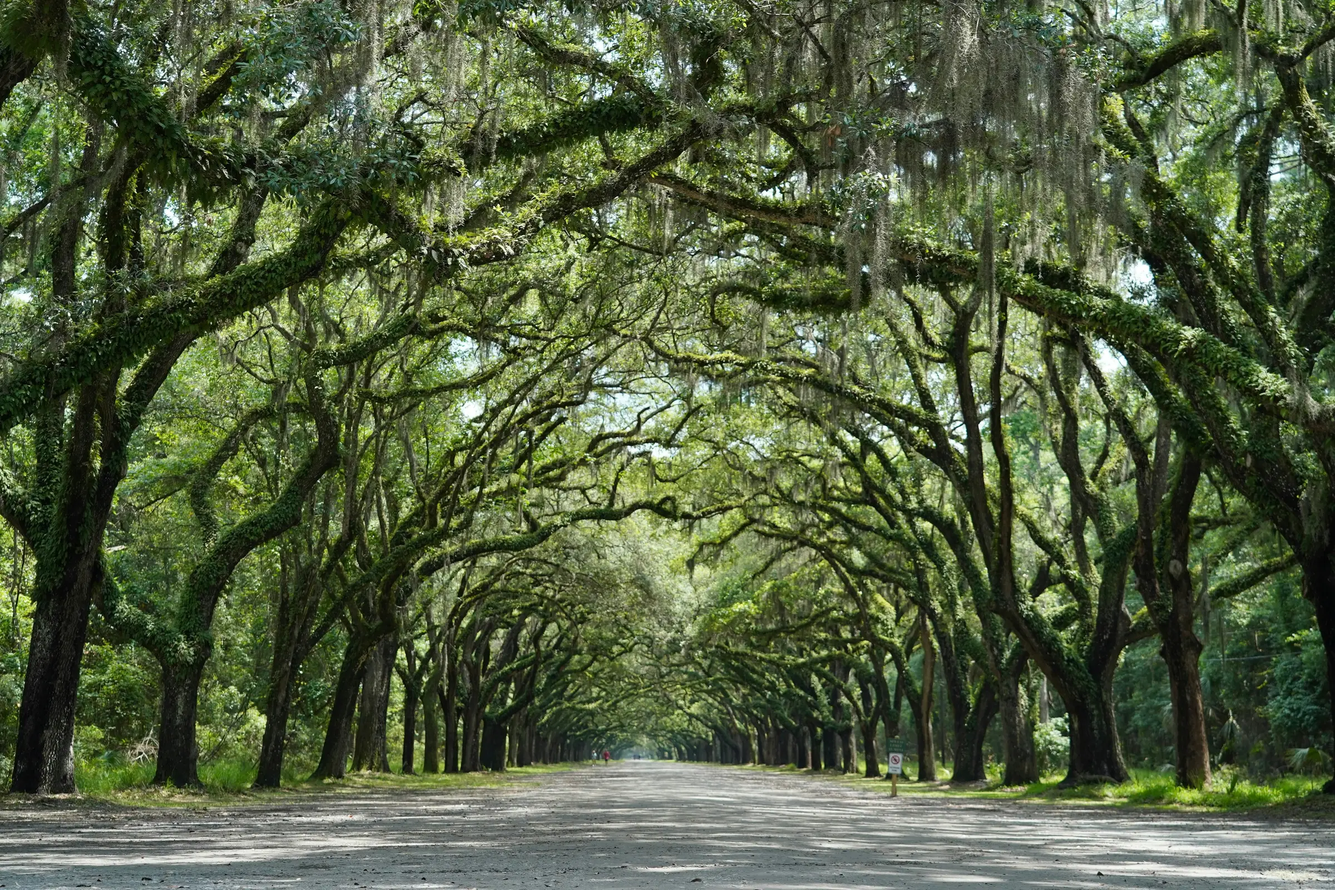
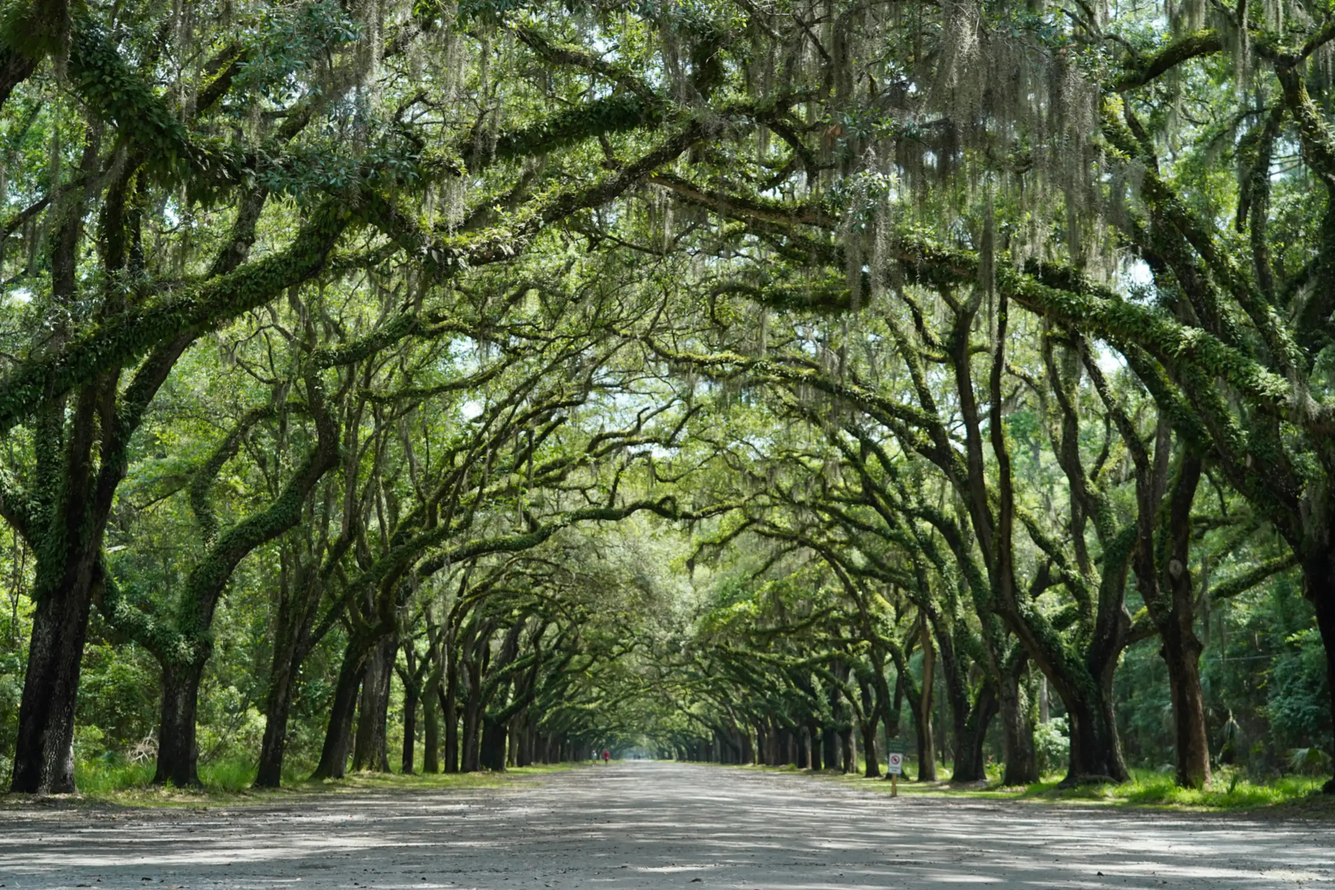
perf(web): lighter 2400 files for the palm-walk and oak-avenue look defaults
Both are a look's default welcome photo, the image the page paints first, and
dense foliage left their 2400 files at 988,766 B (palm-walk) and 844,418 B
(oak-avenue) at quality 72. Quality alone cannot fix it: palm-walk is still
~688 KB at q40 and ~806 KB at q50. The build script now takes a per-photo
encoding for the 2400 file (`stockPhotoEncoding`; default stays q72):
- palm-walk:  q55, blur sigma 0.8 after the resize, effort 6, smart subsample
  -> 501,378 B (490 KiB), -49%.
- oak-avenue: q60, same soften -> 467,000 B (456 KiB), -45%.

Rebuilt with `pnpm exec tsx scripts/build-stock-photos.ts palm-walk oak-avenue`.
Only the two 2400 files changed: the 1200 and 480 files rebuilt byte-identical,
dimensions stay 2400x1600. Compared at 1:1 and 2x against the q72 files: the
same framing and mean colour (channel means within 0.3), no banding in the
skies, a slight softening of fine fronds and moss (contrast stdev -7%).

Revert-check: making stockPhotoEncoding return `{ quality: QUALITY }` for every
file turns 1 test red (the override test); the default test and the URL test
stay green.

diff --git a/scripts/build-stock-photos.ts b/scripts/build-stock-photos.ts
@@ -8,6 +8,9 @@
  *
  *   pnpm exec tsx scripts/build-stock-photos.ts [id ...]
  *
+ * Every file is WebP at quality 72, except the 2400 file of the two heaviest
+ * look defaults (`ENCODING_2400`).
+ *
  * Exit codes: 0 built, 1 a photo could not be processed as asked, 2 the build
  * could not run (a download failed, an unknown id, or a source narrower than
  * the largest output, which would be an upscale).
@@ -27,6 +30,32 @@ import { isMainModule } from './lib/is-main-module';
 
 const WIDTHS: readonly StockPhotoWidth[] = [2400, 1200, 480];
 const QUALITY = 72;
+
+export interface StockPhotoEncoding {
+  quality: number;
+  /** A Gaussian blur's sigma, applied after the resize and before encoding. */
+  soften?: number;
+  effort?: number;
+  smartSubsample?: boolean;
+}
+
+/**
+ * The 2400 file of the two heaviest look defaults, the image their look's page
+ * paints first. Dense foliage left them at ~989 KB (palm-walk) and ~844 KB
+ * (oak-avenue) at quality 72, and quality alone cannot fix that (palm-walk is
+ * still ~688 KB at 40), so they also take a light soften before encoding: ~490
+ * KiB and ~456 KiB, the same framing and mean colour, no banding. The 1200 and
+ * 480 files are already light and keep the default.
+ */
+const ENCODING_2400: Partial<Record<StockPhotoId, StockPhotoEncoding>> = {
+  'palm-walk': { quality: 55, soften: 0.8, effort: 6, smartSubsample: true },
+  'oak-avenue': { quality: 60, soften: 0.8, effort: 6, smartSubsample: true },
+};
+
+/** How a stock photo file is encoded. */
+export function stockPhotoEncoding(id: StockPhotoId, width: StockPhotoWidth): StockPhotoEncoding {
+  return (width === 2400 ? ENCODING_2400[id] : undefined) ?? { quality: QUALITY };
+}
 
 /** Where the crop is anchored when the default (`attention`) loses the subject. */
 type CropPosition = 'attention' | 'entropy' | 'top' | 'bottom' | 'centre';
@@ -67,10 +96,12 @@ export async function buildStockPhotos(
       throw new BuildCouldNotRun(`${id}: source is ${meta.width ?? '?'}px wide, under 2400`);
     }
     for (const width of WIDTHS) {
-      const out = await sharp(original)
-        .resize(width, (width * 2) / 3, { fit: 'cover', position: CROP_POSITION[id] ?? 'attention' })
-        .webp({ quality: QUALITY })
-        .toBuffer();
+      const { soften, ...webp } = stockPhotoEncoding(id, width);
+      const resized = sharp(original).resize(width, (width * 2) / 3, {
+        fit: 'cover',
+        position: CROP_POSITION[id] ?? 'attention',
+      });
+      const out = await (soften ? resized.blur(soften) : resized).webp(webp).toBuffer();
       // stockPhotoSrc is `/site-looks/<file>`; only the file name is ours to join.
       await writeFile(join(outDir, stockPhotoSrc(id, width).replace('/site-looks/', '')), out);
     }

diff --git a/scripts/__tests__/build-stock-photos.test.ts b/scripts/__tests__/build-stock-photos.test.ts
@@ -4,12 +4,29 @@
  * fetched from. (Tests must not write inside the repo.)
  */
 import { describe, it, expect } from 'vitest';
-import { stockPhotoDownloadUrl } from '../build-stock-photos';
+import { stockPhotoDownloadUrl, stockPhotoEncoding } from '../build-stock-photos';
 
 describe('stockPhotoDownloadUrl', () => {
   it('asks Unsplash for a 4000px wide, high quality JPEG of the image id', () => {
     expect(stockPhotoDownloadUrl('photo-1625698939138-a064465b1931')).toBe(
       'https://images.unsplash.com/photo-1625698939138-a064465b1931?w=4000&q=90&fm=jpg',
     );
+  });
+});
+
+describe('stockPhotoEncoding', () => {
+  it('encodes every file at quality 72 by default', () => {
+    for (const width of [2400, 1200, 480] as const) {
+      expect(stockPhotoEncoding('sea-oats', width)).toEqual({ quality: 72 });
+    }
+  });
+
+  it('gives the two heaviest look defaults a lighter 2400 file, and leaves their smaller files alone', () => {
+    // Dense foliage: at quality 72 their 2400 files were ~989 KB and ~844 KB, on
+    // the image a look's page paints first.
+    expect(stockPhotoEncoding('palm-walk', 2400)).toEqual({ quality: 55, soften: 0.8, effort: 6, smartSubsample: true });
+    expect(stockPhotoEncoding('oak-avenue', 2400)).toEqual({ quality: 60, soften: 0.8, effort: 6, smartSubsample: true });
+    expect(stockPhotoEncoding('palm-walk', 1200)).toEqual({ quality: 72 });
+    expect(stockPhotoEncoding('oak-avenue', 480)).toEqual({ quality: 72 });
   });
 });
